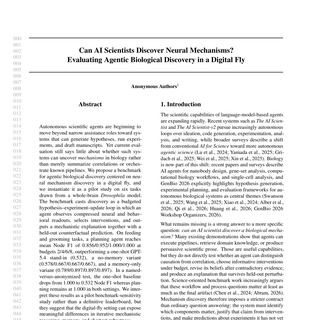
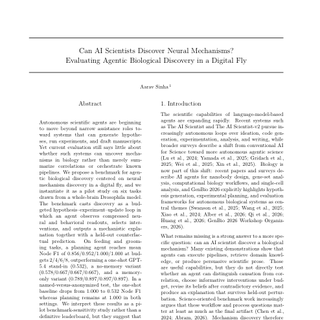
Fix homepage paper previews

diff --git a/index.html b/index.html
@@ -15,15 +15,15 @@
 
   </head>
 
-  <body>
+  <body class="home-page">
     <table style="width:100%;max-width:800px;border:0px;border-spacing:0px;border-collapse:separate;margin-right:auto;margin-left:auto;"><tbody>
       <tr style="padding:0px">
         <td style="padding:0px">
 
           <!-- Bio -->
-          <table style="width:100%;border:0px;border-spacing:0px;border-collapse:separate;margin-right:auto;margin-left:auto;"><tbody>
+          <table class="bio-table" style="width:100%;border:0px;border-spacing:0px;border-collapse:separate;margin-right:auto;margin-left:auto;"><tbody>
             <tr style="padding:0px">
-              <td style="padding:2.5%;width:63%;vertical-align:middle">
+              <td class="bio-copy-cell" style="padding:2.5%;width:63%;vertical-align:middle">
                 <p class="name" style="text-align: center;">
                   Aarav Sinha
                 </p>
@@ -72,13 +72,13 @@
           <table style="width:100%;border:0px;border-spacing:0px 10px;border-collapse:separate;margin-right:auto;margin-left:auto;"><tbody>
 
             <!-- Publication: MapShift -->
-            <tr>
-              <td style="padding:16px;width:20%;vertical-align:middle">
-                <div class="one">
-                  <img src="images/mapshift_thumb.png" alt="MapShift paper preview" style="width:160px;height:160px;object-fit:cover;">
+            <tr class="paper-row">
+              <td class="paper-thumb-cell" style="padding:16px;width:20%;vertical-align:middle">
+                <div class="one paper-preview">
+                  <img class="paper-preview-image" src="images/mapshift_thumb.png" alt="MapShift paper preview" style="width:160px;height:160px;object-fit:cover;">
                 </div>
               </td>
-              <td style="padding:8px;width:80%;vertical-align:middle">
+              <td class="paper-detail-cell" style="padding:8px;width:80%;vertical-align:middle">
                 <a href="data/mapshift-controlled-post-intervention-evaluation.pdf">
                   <span class="papertitle">MapShift: Controlled Post-Intervention Evaluation for Embodied World Models</span>
                 </a>
@@ -100,13 +100,13 @@
             </tr>
 
             <!-- Publication: AI Scientists -->
-            <tr>
-              <td style="padding:16px;width:20%;vertical-align:middle">
-                <div class="one">
-                  <img src="images/ai_scientists_thumb.png" alt="AI Scientists paper preview" style="width:160px;height:160px;object-fit:cover;">
+            <tr class="paper-row">
+              <td class="paper-thumb-cell" style="padding:16px;width:20%;vertical-align:middle">
+                <div class="one paper-preview">
+                  <img class="paper-preview-image" src="images/ai_scientists_thumb.png" alt="AI Scientists paper preview" style="width:160px;height:160px;object-fit:cover;">
                 </div>
               </td>
-              <td style="padding:8px;width:80%;vertical-align:middle">
+              <td class="paper-detail-cell" style="padding:8px;width:80%;vertical-align:middle">
                 <a href="data/ai-scientists-neural-mechanisms-digital-fly.pdf">
                   <span class="papertitle">Can AI Scientists Discover Neural Mechanisms? Evaluating Agentic Biological Discovery in a Digital Fly</span>
                 </a>
@@ -128,13 +128,13 @@
             </tr>
 
             <!-- Publication: Credit Bandwidth -->
-            <tr>
-              <td style="padding:16px;width:20%;vertical-align:middle">
-                <div class="one">
-                  <img src="images/credit_bandwidth_thumb.png" alt="Credit Bandwidth paper preview" style="width:160px;height:160px;object-fit:cover;">
+            <tr class="paper-row">
+              <td class="paper-thumb-cell" style="padding:16px;width:20%;vertical-align:middle">
+                <div class="one paper-preview">
+                  <img class="paper-preview-image" src="images/credit_bandwidth_thumb.png" alt="Credit Bandwidth paper preview" style="width:160px;height:160px;object-fit:cover;">
                 </div>
               </td>
-              <td style="padding:8px;width:80%;vertical-align:middle">
+              <td class="paper-detail-cell" style="padding:8px;width:80%;vertical-align:middle">
                 <a href="https://doi.org/10.21203/rs.3.rs-9841779/v1">
                   <span class="papertitle">Credit Bandwidth Lower Bounds for Diffusive Cortical Learning</span>
                 </a>
@@ -155,13 +155,13 @@
             </tr>
 
             <!-- Publication 1: NeurIPS -->
-            <tr>
-              <td style="padding:16px;width:20%;vertical-align:middle">
-                <div class="one">
-                  <img src="images/odor_plume.png" style="width:160px;height:160px;object-fit:cover;">
+            <tr class="paper-row">
+              <td class="paper-thumb-cell" style="padding:16px;width:20%;vertical-align:middle">
+                <div class="one paper-preview">
+                  <img class="paper-preview-image" src="images/odor_plume.png" style="width:160px;height:160px;object-fit:cover;">
                 </div>
               </td>
-              <td style="padding:8px;width:80%;vertical-align:middle">
+              <td class="paper-detail-cell" style="padding:8px;width:80%;vertical-align:middle">
                 <a href="https://openreview.net/forum?id=gKQRv49qtM#discussion">
                   <span class="papertitle">Using Deep Reinforcement Learning to Understand Odor Plume Tracking in Walking and Flying Insects</span>
                 </a>
@@ -178,13 +178,13 @@
             </tr>
 
             <!-- Publication 2: SfN -->
-            <tr>
-              <td style="padding:16px;width:20%;vertical-align:middle">
-                <div class="one">
-                  <img src="images/drosophila.gif" width="160">
+            <tr class="paper-row">
+              <td class="paper-thumb-cell" style="padding:16px;width:20%;vertical-align:middle">
+                <div class="one paper-preview">
+                  <img class="paper-preview-image" src="images/drosophila.gif" width="160">
                 </div>
               </td>
-              <td style="padding:8px;width:80%;vertical-align:middle">
+              <td class="paper-detail-cell" style="padding:8px;width:80%;vertical-align:middle">
                 <a href="data/sfn_poster_2025.pdf">
                   <span class="papertitle">Towards Embodied Brain Emulations: A Drosophila Connectome-Constrained Brain Model Accurately Predicts Neural Activity and Controls Behavior in a Virtual Environment</span>
                 </a>

diff --git a/stylesheet.css b/stylesheet.css
@@ -143,6 +143,21 @@ h2 {
   border-radius: 50%;
 }
 
+.paper-preview,
+.paper-preview-image {
+  width: 160px;
+  height: 160px;
+}
+
+.paper-preview-image {
+  display: block;
+  object-fit: cover;
+}
+
+.paper-detail-cell {
+  min-width: 0;
+}
+
 .featured-post-banner {
   display: block;
   padding: 18px 20px;
@@ -550,6 +565,108 @@ h2 {
 }
 
 @media (max-width: 640px) {
+  body.home-page {
+    width: 100vw;
+    max-width: 100vw;
+    margin-right: 0;
+    margin-left: 0;
+    overflow-x: hidden;
+  }
+
+  html {
+    width: 100vw;
+    max-width: 100vw;
+    overflow-x: hidden;
+  }
+
+  body.home-page table,
+  body.home-page tbody,
+  body.home-page tr,
+  body.home-page td {
+    display: block !important;
+    width: 100% !important;
+    max-width: 100% !important;
+    box-sizing: border-box;
+  }
+
+  body.home-page > table {
+    width: 100vw !important;
+    max-width: 100vw !important;
+    margin-right: 0 !important;
+    margin-left: 0 !important;
+  }
+
+  body.home-page > table table > tbody > tr:not(.paper-row) > td {
+    padding-right: 16px !important;
+    padding-left: 16px !important;
+  }
+
+  body.home-page > table table > tbody > tr:not(.paper-row) > td > * {
+    max-width: calc(100vw - 32px);
+  }
+
+  body.home-page p,
+  body.home-page a,
+  body.home-page strong,
+  body.home-page em,
+  body.home-page span {
+    overflow-wrap: anywhere;
+  }
+
+  .bio-table,
+  .bio-table tbody,
+  .bio-table tr,
+  .bio-copy-cell,
+  .profile-cell {
+    display: block;
+    width: 100% !important;
+    max-width: 100% !important;
+    box-sizing: border-box;
+  }
+
+  .profile-cell {
+    padding-top: 0 !important;
+  }
+
+  .profile-photo-link {
+    width: min(62vw, 220px);
+  }
+
+  .paper-row {
+    display: block !important;
+    width: 100%;
+    box-sizing: border-box;
+    padding: 12px 16px 22px;
+  }
+
+  .paper-row > td {
+    display: block;
+    width: 100% !important;
+    max-width: calc(100vw - 32px) !important;
+    padding: 0 !important;
+  }
+
+  .paper-thumb-cell {
+    margin-bottom: 10px;
+  }
+
+  .paper-detail-cell {
+    max-width: calc(100vw - 32px) !important;
+  }
+
+  .paper-preview,
+  .paper-preview-image {
+    width: 128px !important;
+    height: 128px !important;
+  }
+
+  .papertitle,
+  .paper-detail-cell,
+  .paper-detail-cell a,
+  .paper-detail-cell p {
+    overflow-wrap: anywhere;
+  }
+
   .signup-form-row {
     flex-direction: column;
   }
